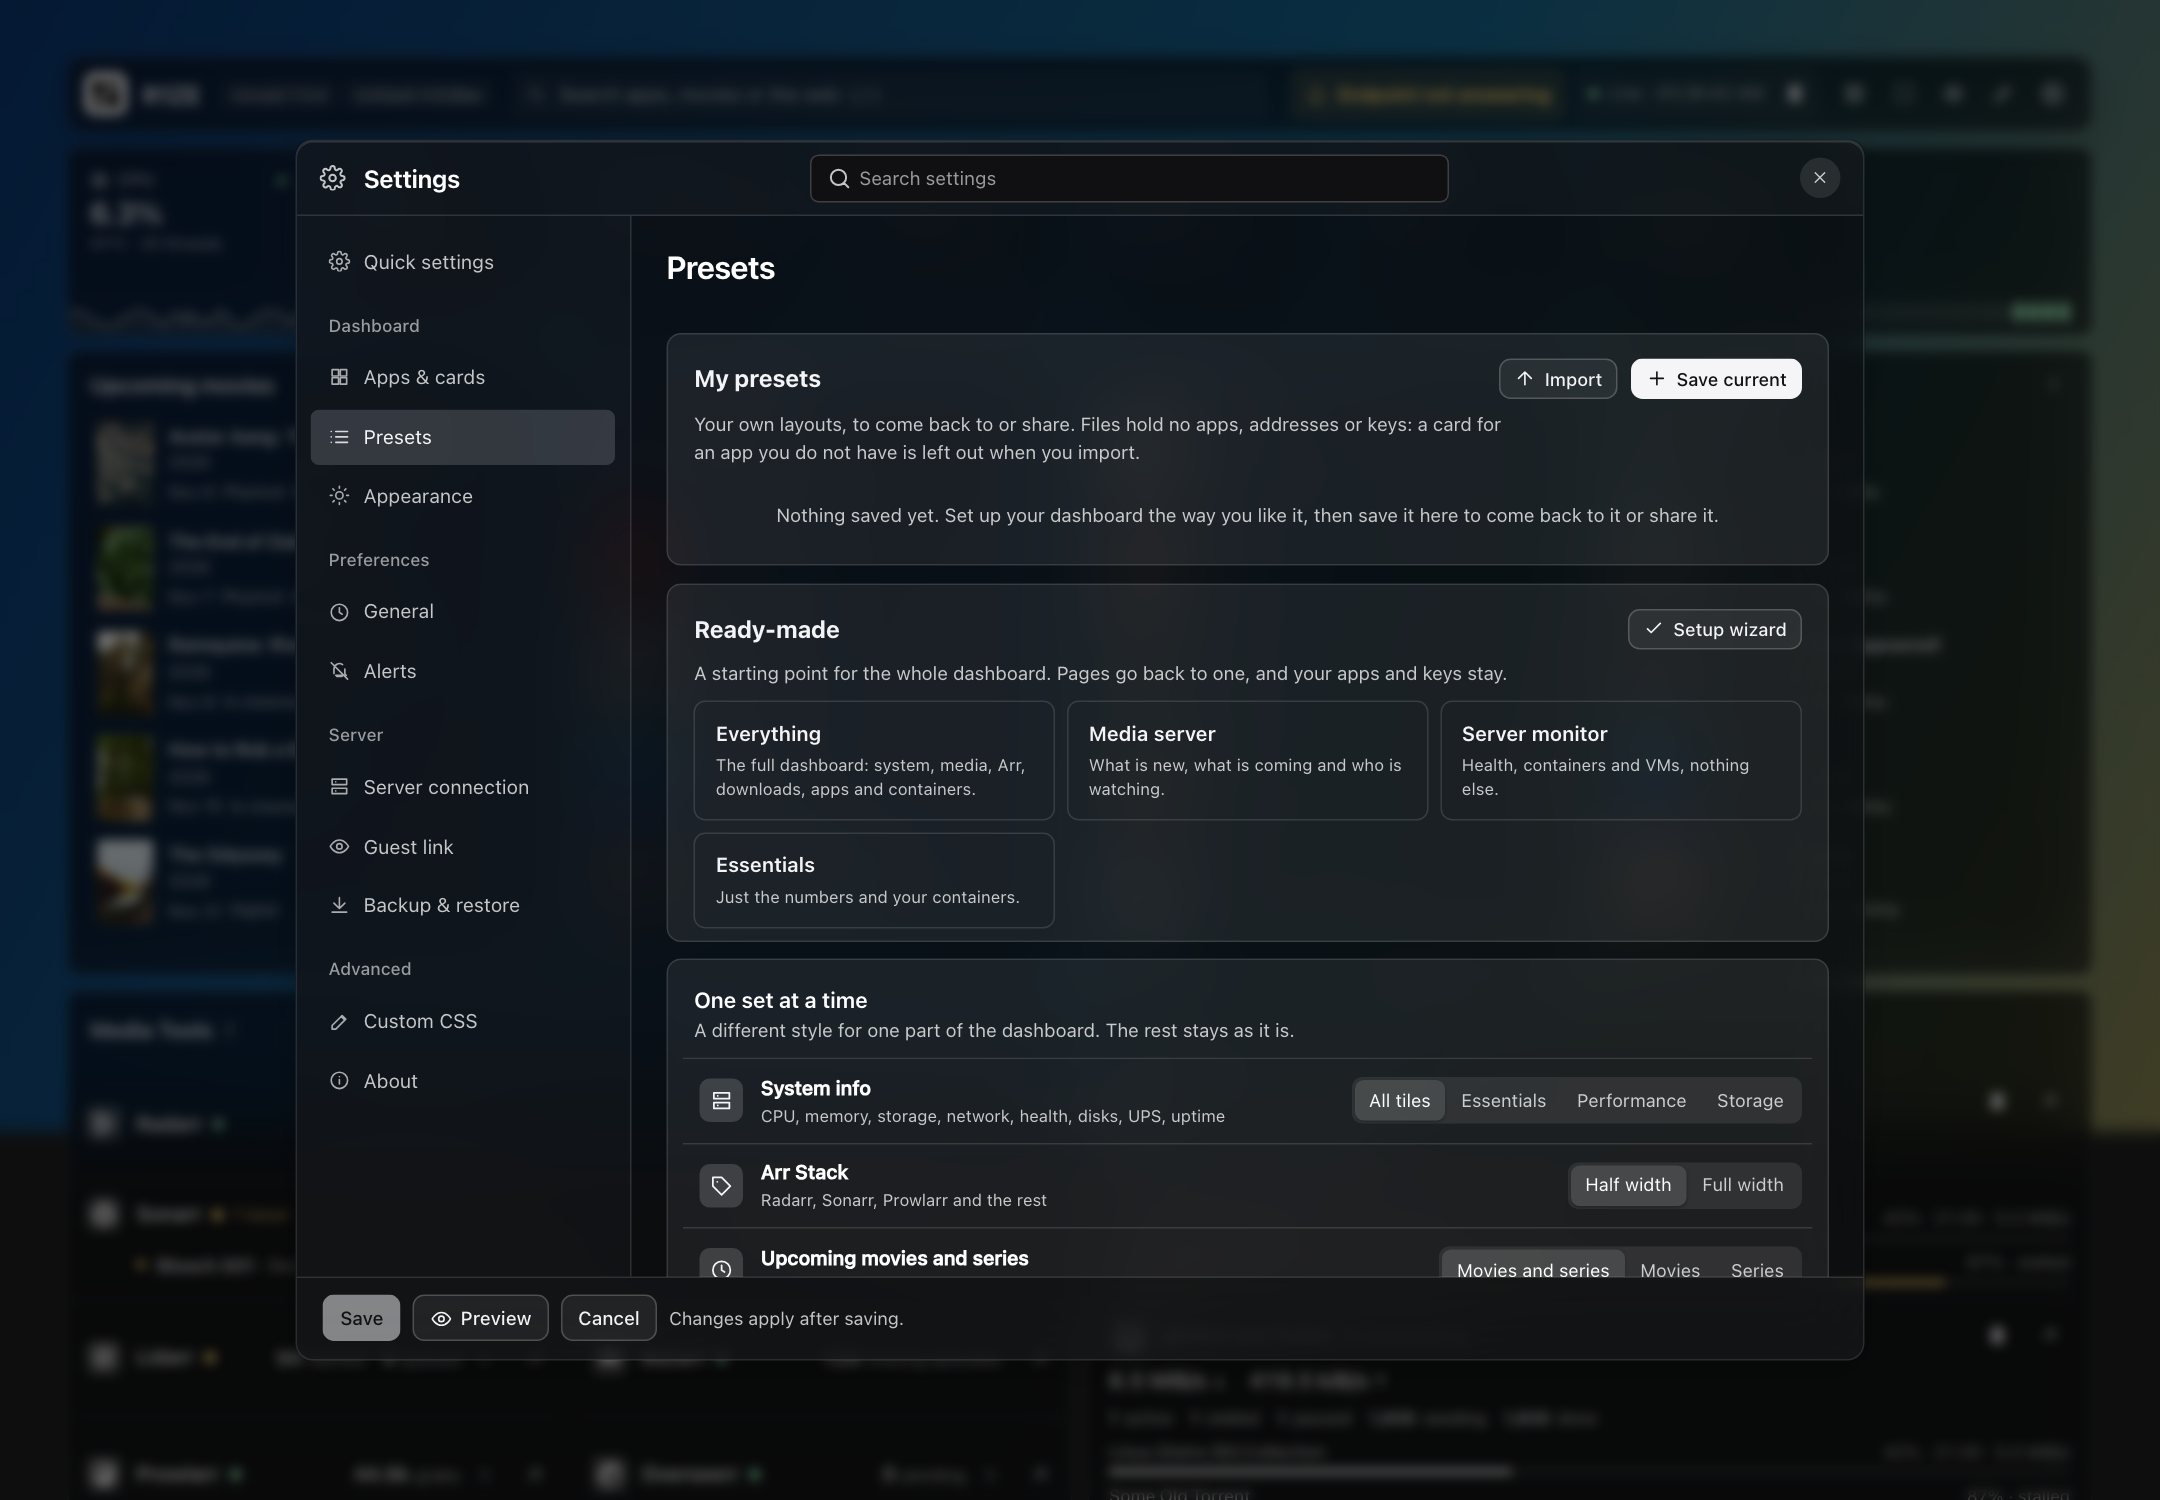
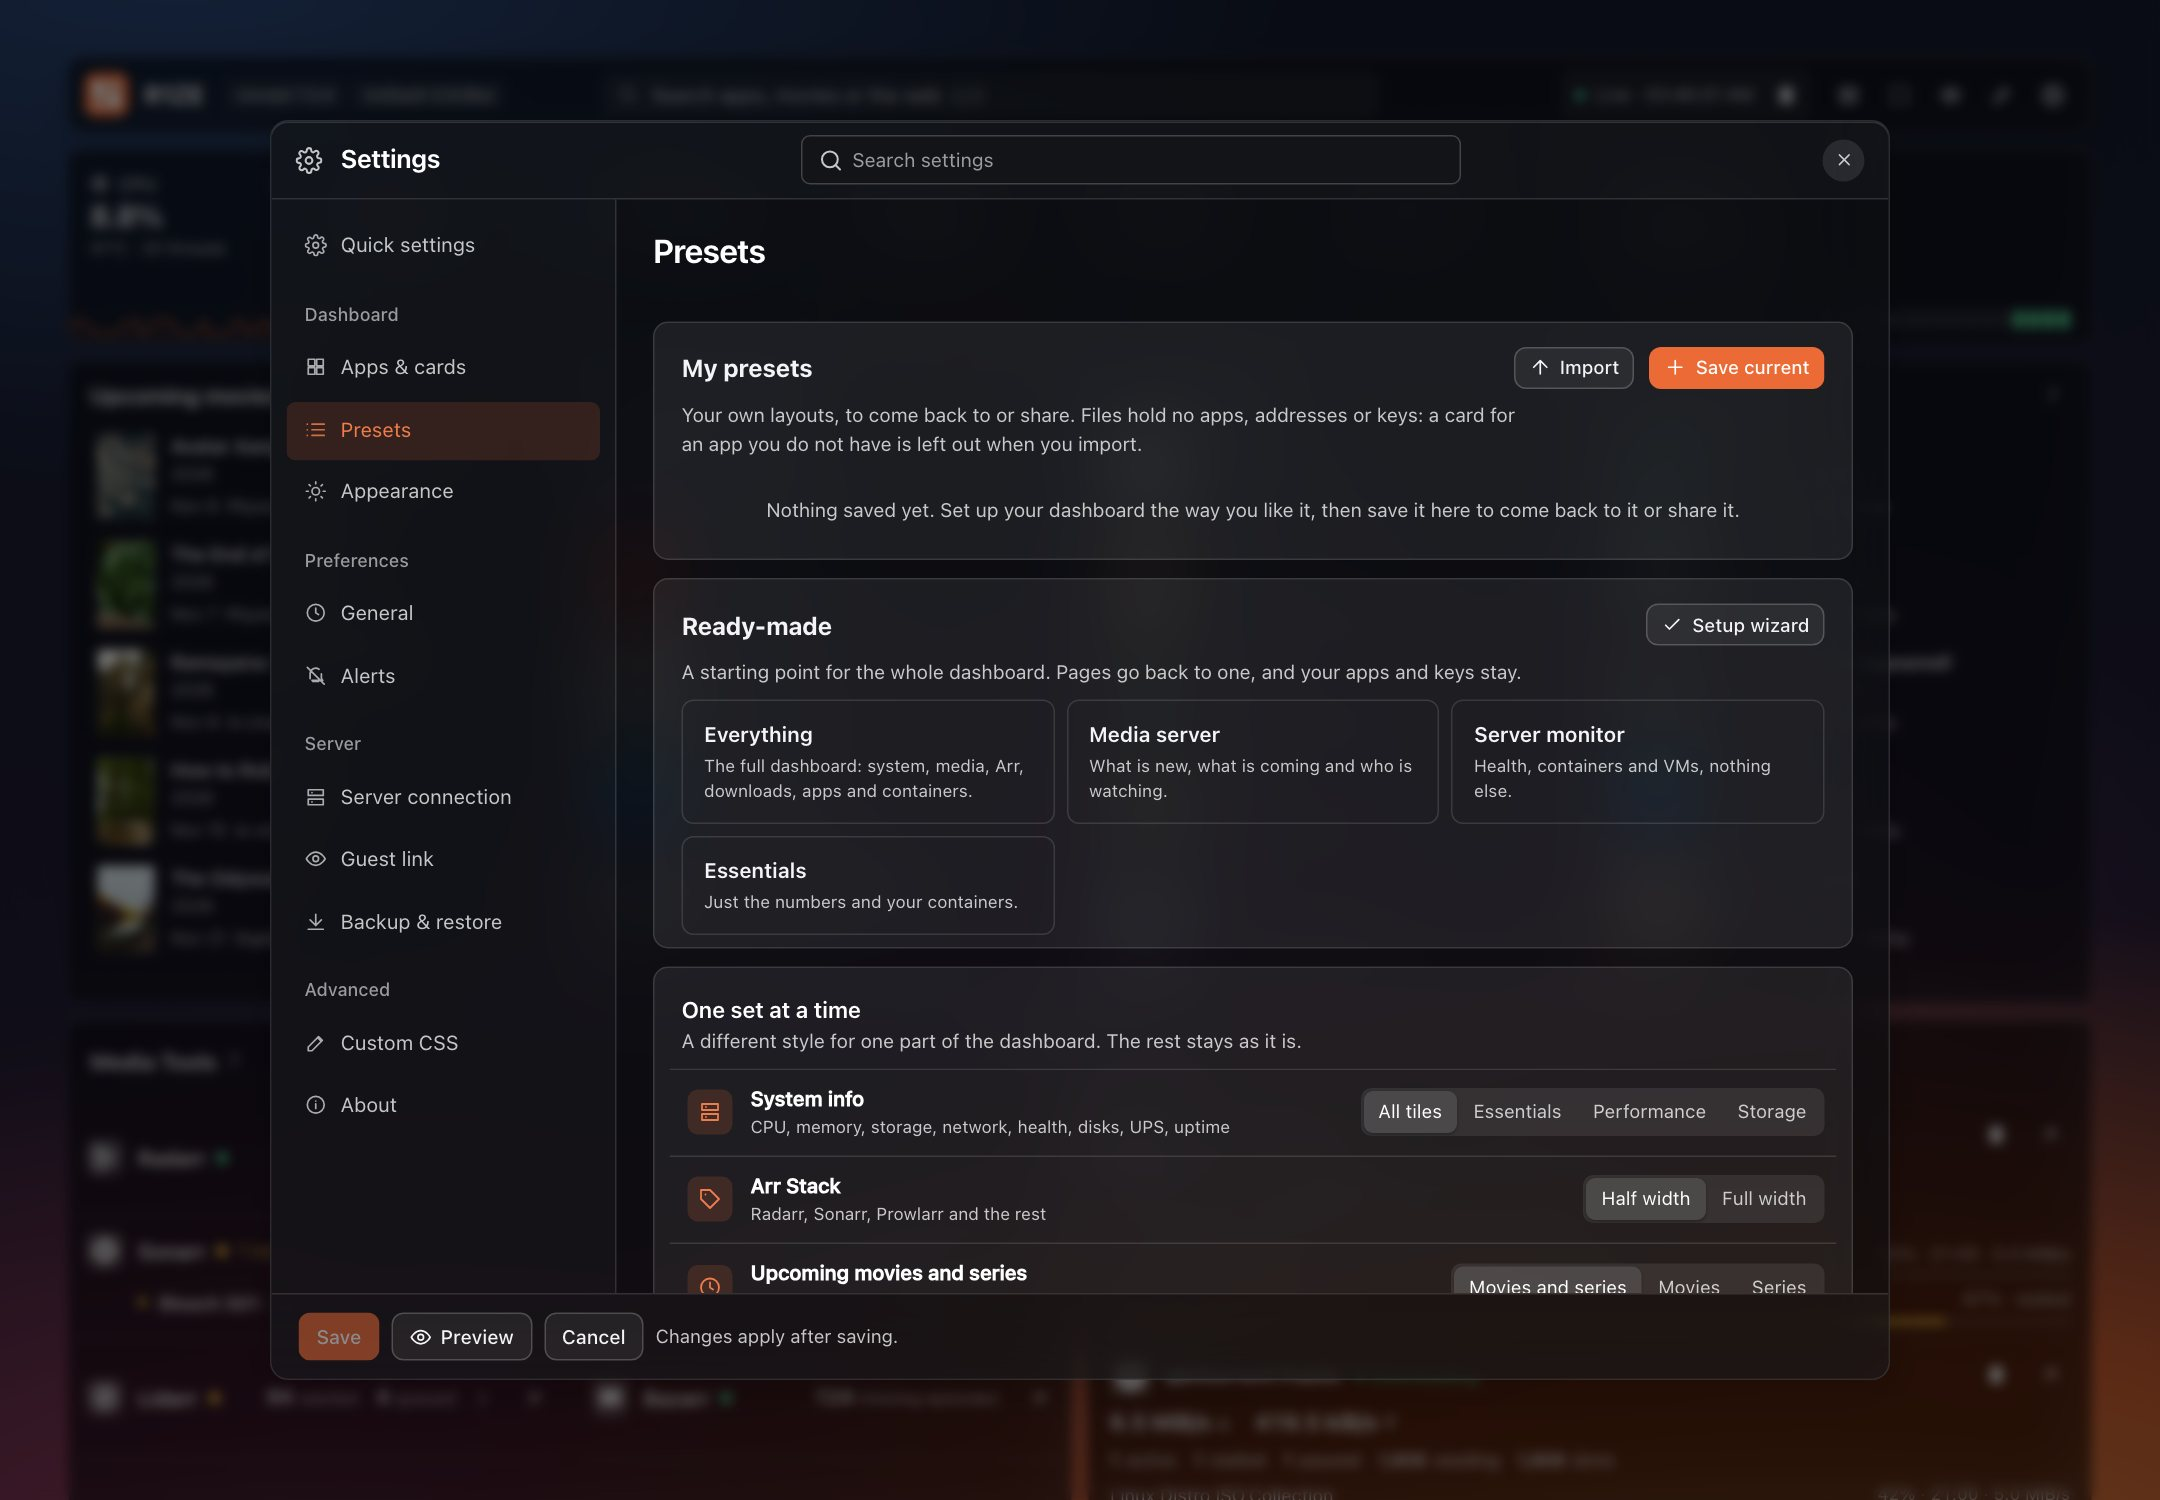
Beta: cards measure again when late data arrives, new README screenshots
On a slow server a card that filled after it was measured stayed short and
cut off its list. Anything added inside a card now measures again, at most
once a second.

The screenshots are retaken in the original Golden Gate theme.

diff --git a/src/assets/app.js b/src/assets/app.js
@@ -985,6 +985,9 @@
       !list.length && !E ? h('div', { class: 'card empty bempty' }, GUEST ? 'Nothing is shared on this page.' : 'This page is empty. Use the edit button at the top to add cards.') : null);
     root.insertBefore(R.boardWrap, R.sections);
     S.boardHide = ''; S.boardNat = '';
+    // data that arrives late fills a card long after it was measured: anything added inside a card measures again, at most once a second
+    if (S.boardWatch) S.boardWatch.disconnect();
+    if (window.MutationObserver) { S.boardWatch = new MutationObserver(function () { if (S.autoLate) return; S.autoLate = setTimeout(function () { S.autoLate = 0; boardAutoSoon(); }, 1000); }); S.boardWatch.observe(R.board, { childList: true, subtree: true }); }
     if (E) boardDock();
     if (mode === 'sm') boardNav();
     boardPaint();
